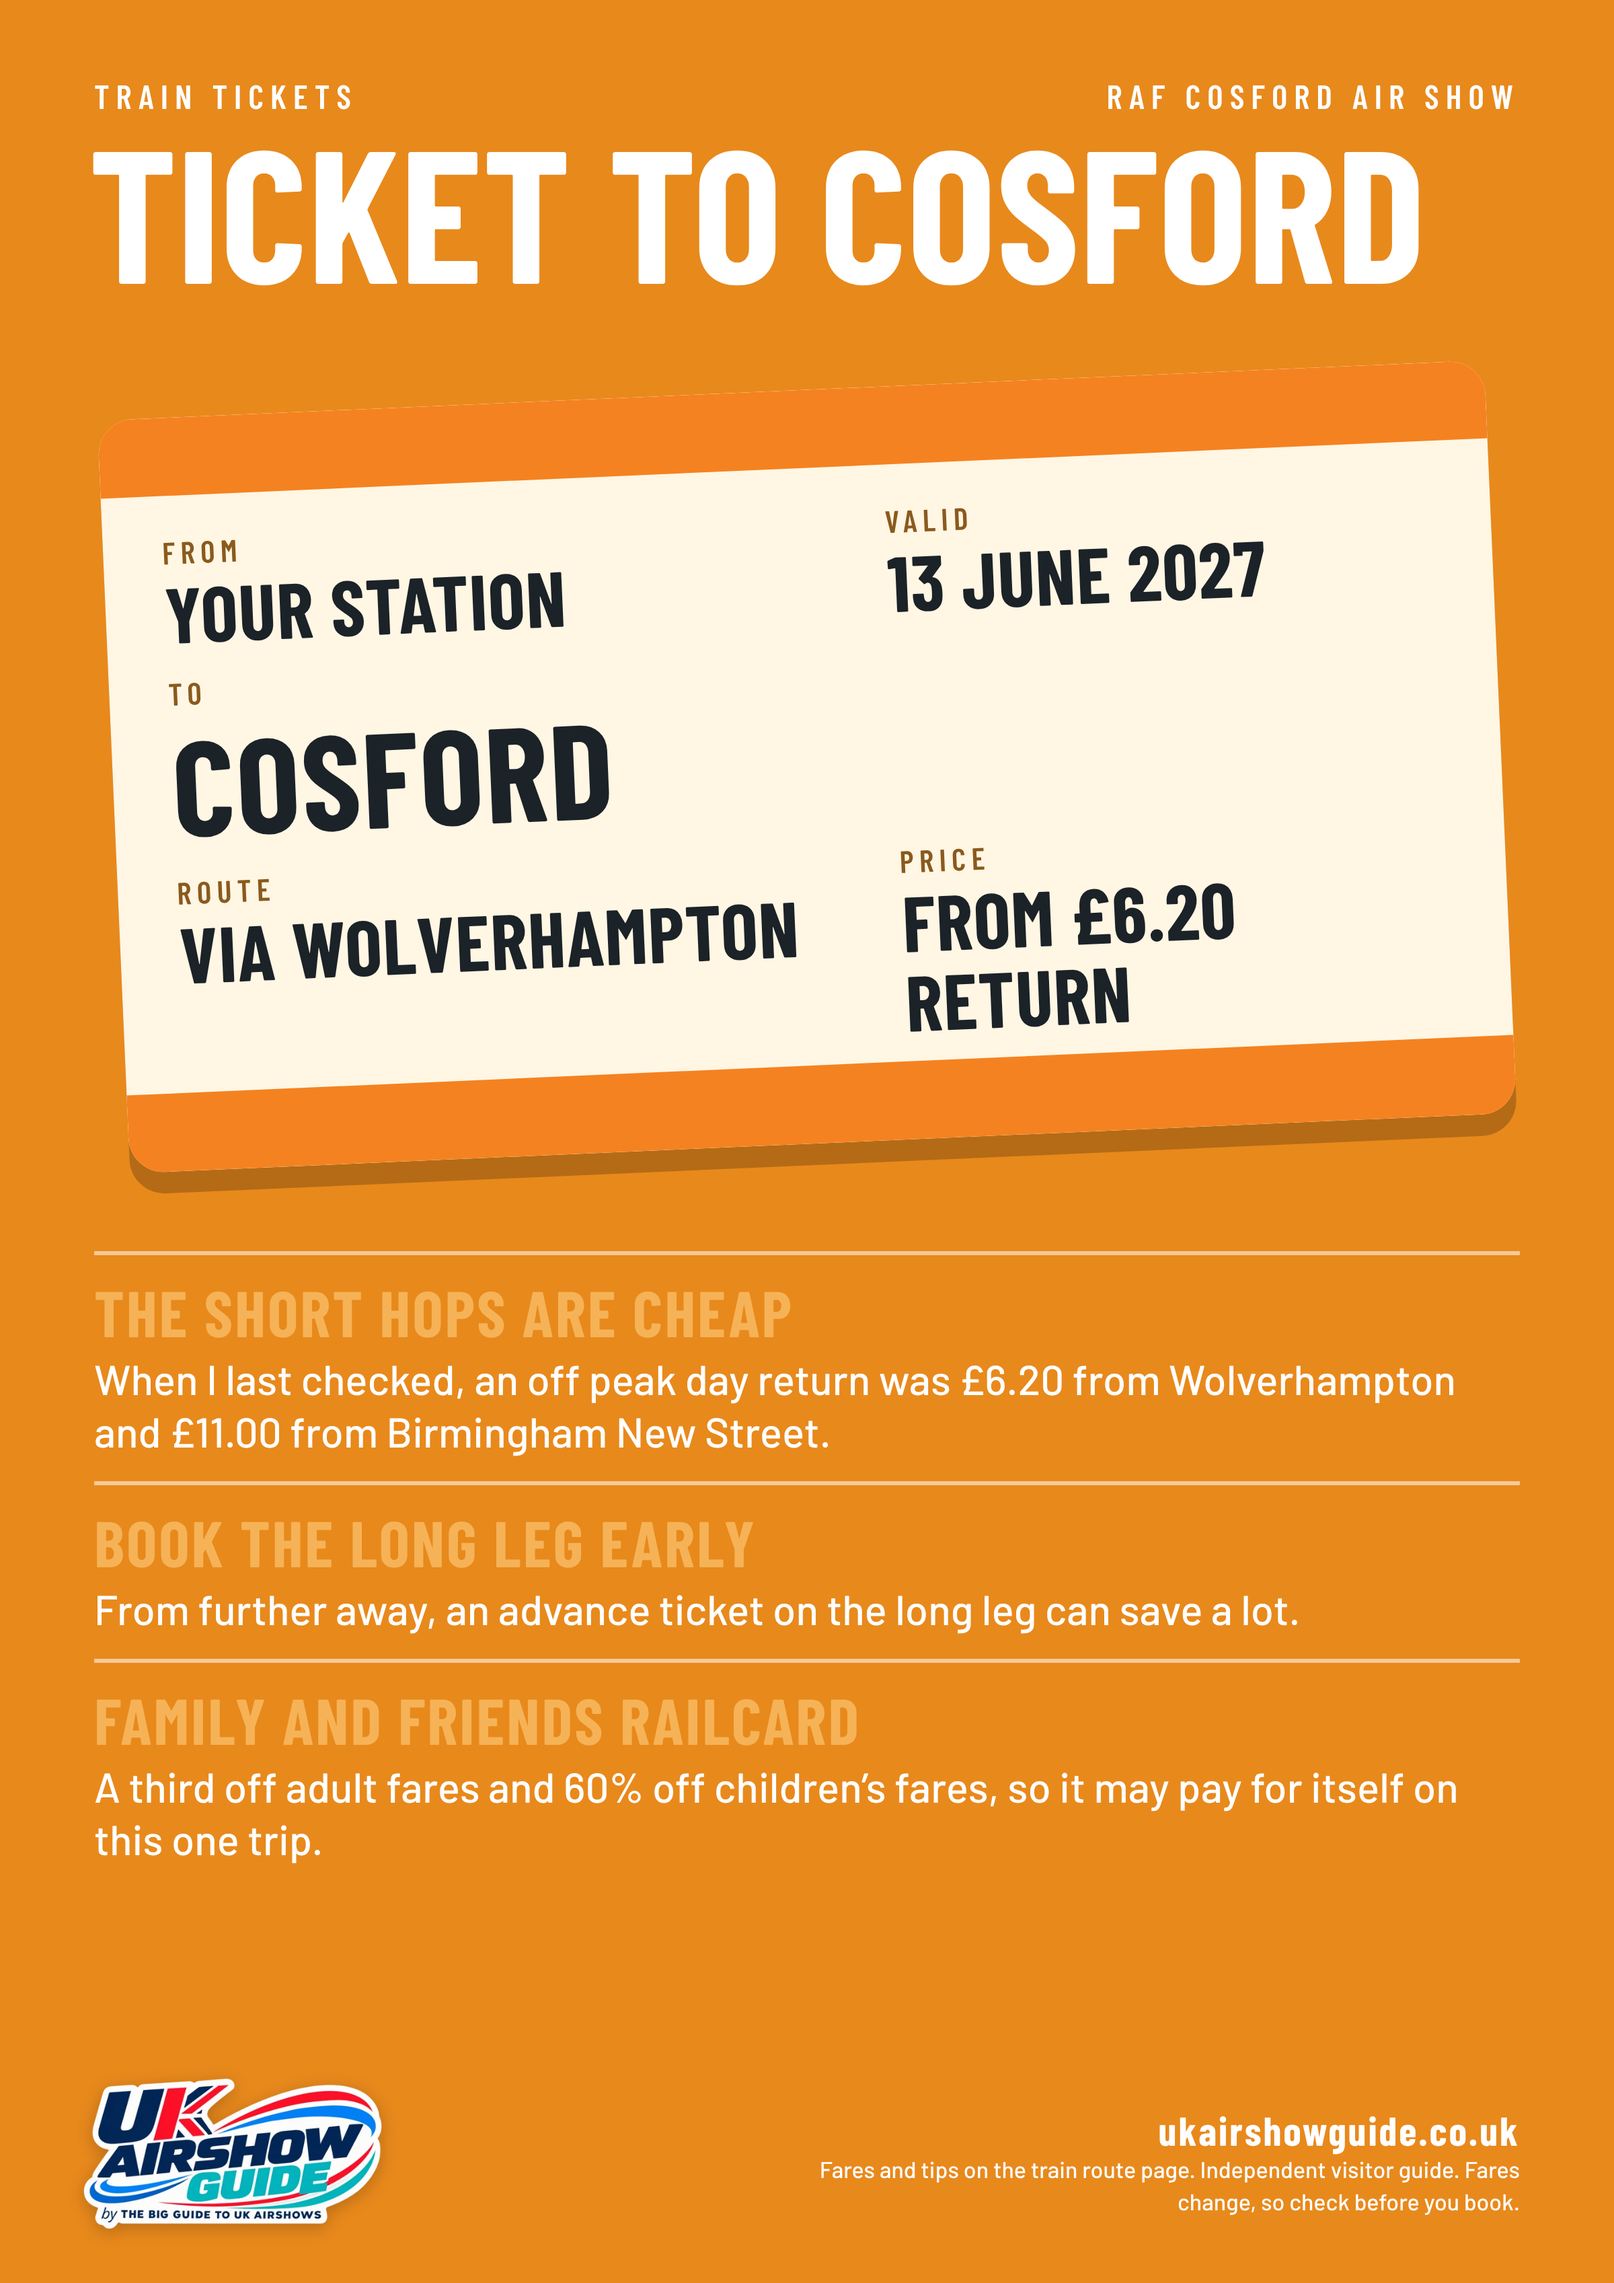
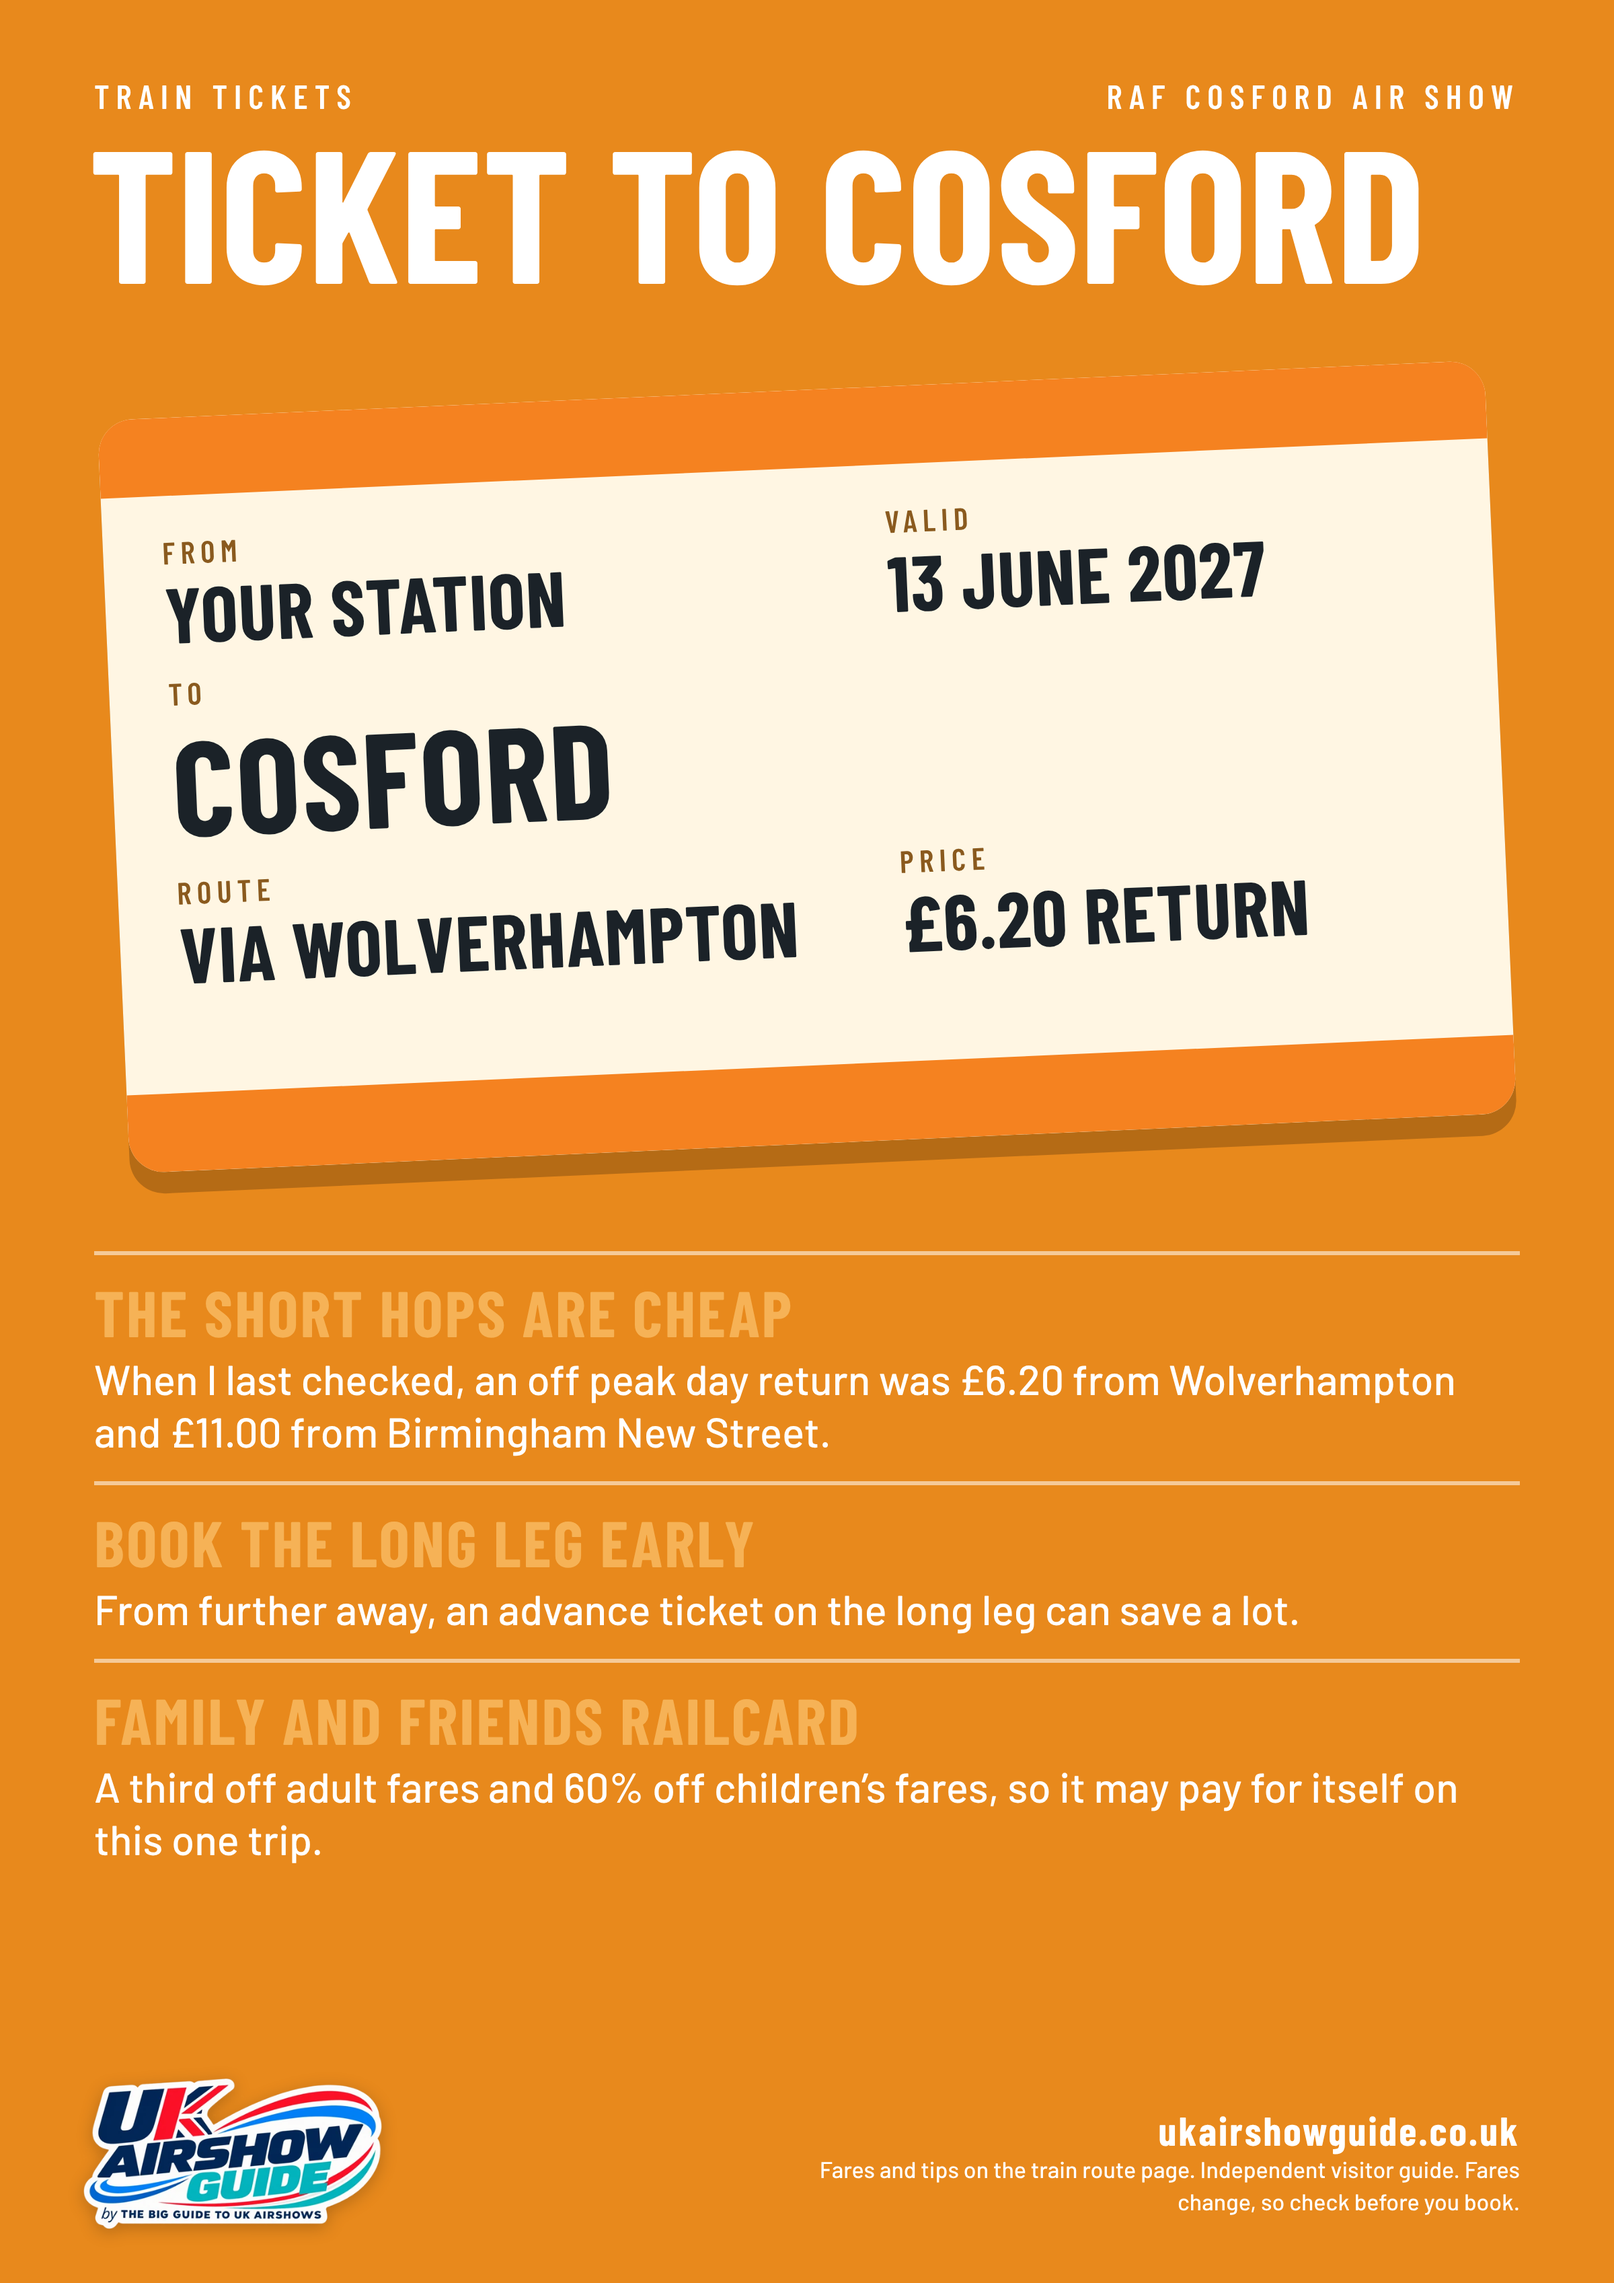
Posters: tidy the Cosford ticket
Claude-Session: https://claude.ai/code/session_01CAsoXMemAtBndXNbXZbhzA

Changed region(s): [[0.5625, 0.3748, 0.8125, 0.4685]]

diff --git a/posters/24-train-cosford-ticket.html b/posters/24-train-cosford-ticket.html
@@ -5,7 +5,7 @@
 <div class="poster tp tk">
   <div class="k"><span>Train tickets</span><span>RAF Cosford Air Show</span></div>
   <h1>Ticket to Cosford</h1>
-  <div class="ticket"><div class="grid"><div class=""><small>From</small><b>Your station</b></div><div class=""><small>Valid</small><b>13 June 2027</b></div><div class="to w"><small>To</small><b>Cosford</b></div><div class=""><small>Route</small><b>Via Wolverhampton</b></div><div class=""><small>Price</small><b>From £6.20 return</b></div></div></div>
+  <div class="ticket"><div class="grid"><div class=""><small>From</small><b>Your station</b></div><div class=""><small>Valid</small><b>13 June 2027</b></div><div class="to w"><small>To</small><b>Cosford</b></div><div class=""><small>Route</small><b>Via Wolverhampton</b></div><div class=""><small>Price</small><b>£6.20 return</b></div></div></div>
   <div class="tips"><div><h2>The short hops are cheap</h2><p>When I last checked, an off peak day return was £6.20 from Wolverhampton and £11.00 from Birmingham New Street.</p></div><div><h2>Book the long leg early</h2><p>From further away, an advance ticket on the long leg can save a lot.</p></div><div><h2>Family and Friends Railcard</h2><p>A third off adult fares and 60% off children’s fares, so it may pay for itself on this one trip.</p></div></div>
   <div class="foot"><span class="logo"><img src="logo.png" alt="UK Airshow Guide"></span>
   <small><b>ukairshowguide.co.uk</b>Fares and tips on the train route page. Independent visitor guide. Fares change, so check before you book.</small></div>
